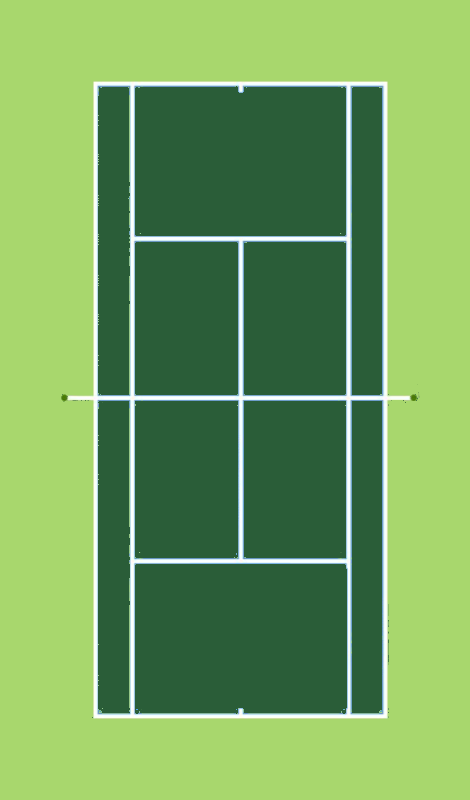
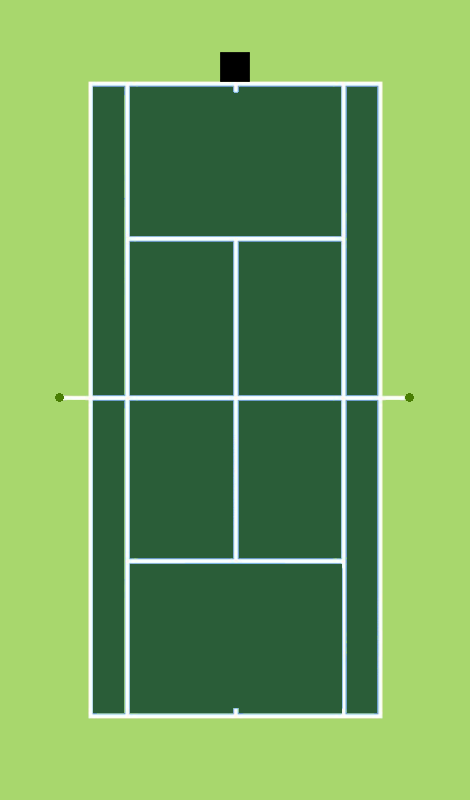
Fix alignment for ball launcher and End Screen text

diff --git a/TrainingMode/TrainingMode.js b/TrainingMode/TrainingMode.js
@@ -18,9 +18,9 @@ export default class TrainingMode extends Component {
       fontLoaded: false,
       targetCoord: null,
       target: null,
-      translateX: new Animated.Value(-173),
-      translateY: new Animated.Value(100),
-      key: state.params.key, 
+      translateX: new Animated.Value(-177),
+      translateY: new Animated.Value(80),
+      key: state.params.key,
       hand: 'backhand',
       moves: []
     };
@@ -117,7 +117,7 @@ export default class TrainingMode extends Component {
   }
   headingAccumulate = 0;
   imagePanResponder = PanResponder.create({
-    onStartShouldSetPanResponder: (evt, gs) => true, // make PanResponder repond 
+    onStartShouldSetPanResponder: (evt, gs) => true, // make PanResponder repond
      onPanResponderMove: (evt, gs) => {
       p3x = gs.x0;
       p3y = gs.y0;
@@ -125,7 +125,7 @@ export default class TrainingMode extends Component {
       // Figure out the heading of each segment
       theta1 = this.relAngle(p3x, p3y, this.p2x, this.p2y);
       theta2 = this.relAngle(this.p2x, this.p2y, this.p1x, this.p1y);
-      
+
       // Heading difference between the previous and current
       // line segments
       headingChange = theta2 - theta1;
@@ -224,7 +224,7 @@ export default class TrainingMode extends Component {
     const { navigation } = this.props;
     // const translateX = new Animated.Value(-173);
     // const translateY = new Animated.Value(100);
-    var stopAnimation = false; 
+    var stopAnimation = false;
 
 
     if (!this.state.fontLoaded) { return null;}
@@ -343,12 +343,7 @@ export default class TrainingMode extends Component {
             {...this.imagePanResponder.panHandlers}
             style = {[styles.ball, {transform:[{translateX: this.state.translateX},{translateY: this.state.translateY}] }]}
             source={require('../assets/images/tennisball.png')}
-            
-          />
-          
 
-          <Image style={styles.box}
-            source={require('../assets/images/box.png')}
           />
 
           {view}
@@ -591,4 +586,3 @@ const styles = StyleSheet.create({
     fontSize: 10
   }
 });
-

diff --git a/EndGameScreen/EndGameScreen.js b/EndGameScreen/EndGameScreen.js
@@ -77,54 +77,46 @@ const styles = StyleSheet.create({
   },
   content: {
     flex: 1,
-    alignItems: 'flex-start',
-    justifyContent: 'flex-start'
+    alignItems: 'center',
+    justifyContent: 'center'
   },
   text: {
     color: '#ffffff',
     fontFamily: 'bungee-inline',
-    marginLeft: 20,
     marginTop: 30,
     fontSize: 22
   },
   texta: {
     color: '#ffffff',
     fontFamily: 'bungee-inline',
-    marginLeft: 110,
     marginTop: 30,
     fontSize: 22
   },
   textb: {
     color: '#ffffff',
     fontFamily: 'bungee-inline',
-    marginLeft: 120,
-
     fontSize: 22
   },
   textc: {
     color: '#ffffff',
     fontFamily: 'bungee-inline',
-    marginLeft: 90,
     marginTop: 30,
     fontSize: 22
   },
   textd: {
     color: '#ffffff',
     fontFamily: 'bungee-inline',
-    marginLeft: 130,
     fontSize: 50
   },
   firsttext: {
     color: '#ffffff',
     margin: 3,
     fontFamily: 'bungee-inline',
-    marginLeft: 110,
     marginTop: 5,
     fontSize: 28
   },
     button: {
     backgroundColor: '#ffffff',
-    marginLeft: 65,
     marginTop: 20,
     fontSize: 28
 
